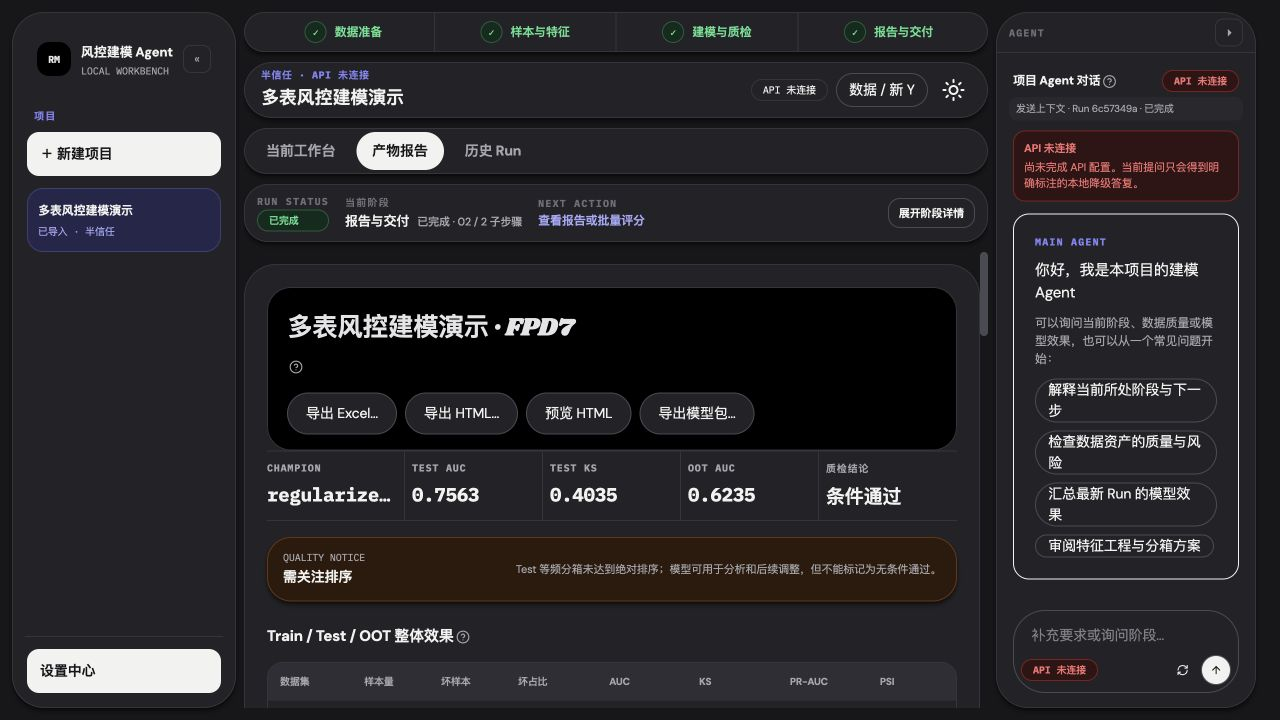
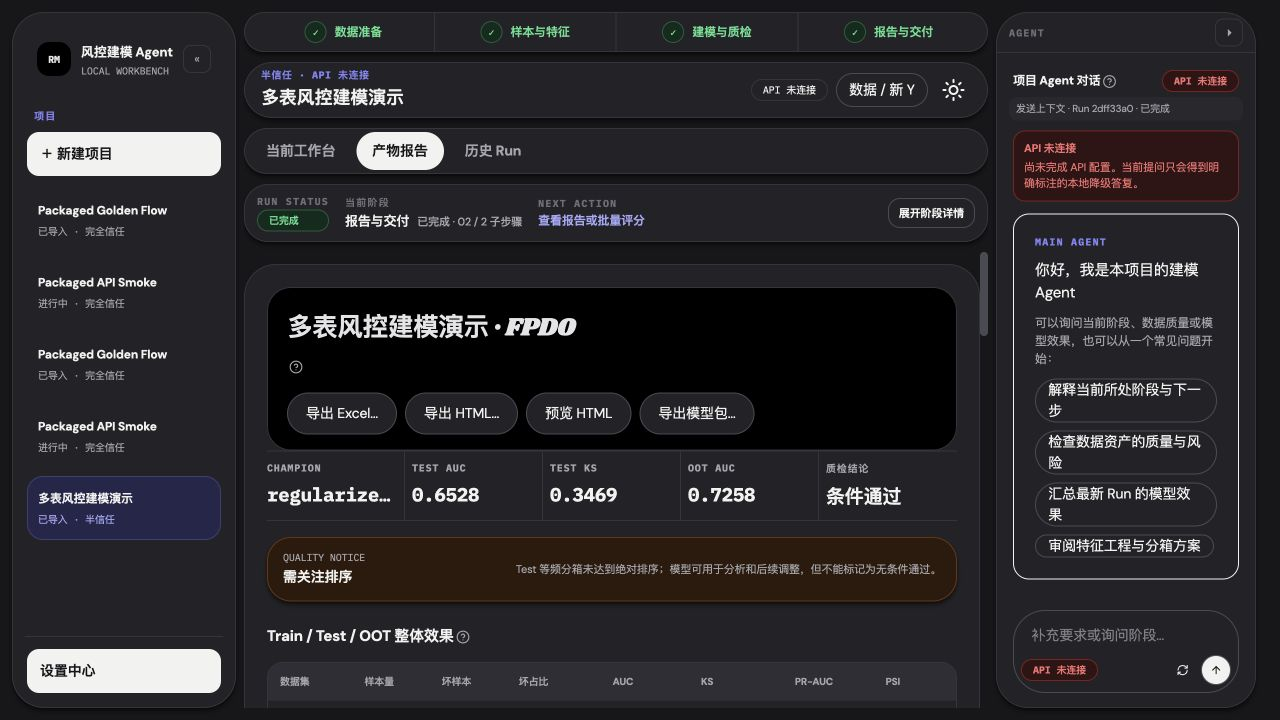
区分旧版迁移夹具与新版导出验收，补充严格回归

diff --git a/scripts/smoke_packaged_service.py b/scripts/smoke_packaged_service.py
@@ -98,9 +98,20 @@ def assert_sha256(value: Any, label: str) -> None:
         raise AssertionError(f"{label} does not contain a SHA-256 checksum")
 
 
+def is_legacy_migration_fixture(
+    requested: bool, health: dict[str, Any], evidence_output: str
+) -> bool:
+    if not requested:
+        return False
+    if health.get("version") != "1.1.2" or health.get("desktop") or not evidence_output:
+        raise AssertionError("旧版检查仅限带迁移证据输出的真实 1.1.2 Inno 夹具。")
+    return True
+
+
 def main() -> None:
     parser = argparse.ArgumentParser()
     parser.add_argument("--url", default="http://127.0.0.1:8765")
+    parser.add_argument("--legacy-inno-112", action="store_true")
     parser.add_argument(
         "--evidence-output",
         default="",
@@ -112,6 +123,7 @@ def main() -> None:
     health = request_json(base_url, "GET", "/api/v1/health", timeout=30)
     assert health["status"] == "ok"
     assert health["runtime"] == "local"
+    legacy_fixture = is_legacy_migration_fixture(args.legacy_inno_112, health, args.evidence_output)
     if health.get("desktop") is True:
         if not _desktop_session_headers():
             raise AssertionError("桌面后端冒烟未携带 WebView 已建立的会话。")
@@ -193,47 +205,48 @@ def main() -> None:
     assert job["metadata"]["score_column"].startswith("FPD0_")
     assert_sha256(job["metadata"]["output_sha256"], "score output")
 
-    with tempfile.TemporaryDirectory(prefix="risk-export-") as temporary:
-        export_directory = Path(temporary).resolve() / "中文 导出验收"
-        export_directory.mkdir()
-        exported_paths: list[str] = []
-        for format_name, artifact_kind in (
-            ("excel", "report_excel"),
-            ("html", "report_html"),
-            ("model", "model_package"),
-            ("html", "report_html"),
-        ):
-            saved = request_json(
+    if not legacy_fixture:
+        with tempfile.TemporaryDirectory(prefix="risk-export-") as temporary:
+            export_directory = Path(temporary).resolve() / "中文 导出验收"
+            export_directory.mkdir()
+            exported_paths: list[str] = []
+            for format_name, artifact_kind in (
+                ("excel", "report_excel"),
+                ("html", "report_html"),
+                ("model", "model_package"),
+                ("html", "report_html"),
+            ):
+                saved = request_json(
+                    base_url,
+                    "POST",
+                    f"/api/v1/reports/{run['id']}/export",
+                    {"format": format_name, "directory": str(export_directory)},
+                )
+                output = Path(saved["path"])
+                assert output.parent == export_directory
+                assert output.stat().st_size == saved["size_bytes"]
+                digest = hashlib.sha256(output.read_bytes()).hexdigest()
+                assert digest == saved["sha256"] == artifacts[artifact_kind]["checksum"]
+                assert saved["path"] not in exported_paths
+                exported_paths.append(saved["path"])
+            saved_score = request_json(
                 base_url,
                 "POST",
-                f"/api/v1/reports/{run['id']}/export",
-                {"format": format_name, "directory": str(export_directory)},
+                f"/api/v1/score-jobs/{job['id']}/export",
+                {"directory": str(export_directory)},
             )
-            output = Path(saved["path"])
-            assert output.parent == export_directory
-            assert output.stat().st_size == saved["size_bytes"]
-            digest = hashlib.sha256(output.read_bytes()).hexdigest()
-            assert digest == saved["sha256"] == artifacts[artifact_kind]["checksum"]
-            assert saved["path"] not in exported_paths
-            exported_paths.append(saved["path"])
-        saved_score = request_json(
-            base_url,
-            "POST",
-            f"/api/v1/score-jobs/{job['id']}/export",
-            {"directory": str(export_directory)},
-        )
-        assert (
-            hashlib.sha256(Path(saved_score["path"]).read_bytes()).hexdigest()
-            == job["metadata"]["output_sha256"]
-        )
-        preview_request = Request(
-            f"{base_url}/api/v1/reports/{run['id']}/preview",
-            headers=_desktop_session_headers(),
-        )
-        with urlopen(preview_request, timeout=30) as response:  # noqa: S310
-            assert response.headers["Content-Disposition"] == "inline"
-            assert "sandbox" in response.headers["Content-Security-Policy"]
-            assert "风控模型报告" in response.read().decode("utf-8")
+            assert (
+                hashlib.sha256(Path(saved_score["path"]).read_bytes()).hexdigest()
+                == job["metadata"]["output_sha256"]
+            )
+            preview_request = Request(
+                f"{base_url}/api/v1/reports/{run['id']}/preview",
+                headers=_desktop_session_headers(),
+            )
+            with urlopen(preview_request, timeout=30) as response:  # noqa: S310
+                assert response.headers["Content-Disposition"] == "inline"
+                assert "sandbox" in response.headers["Content-Security-Policy"]
+                assert "风控模型报告" in response.read().decode("utf-8")
 
     evidence: dict[str, Any] | None = None
     if args.evidence_output:
@@ -297,10 +310,11 @@ def main() -> None:
                 "artifact_kinds": sorted(required),
                 "score_rows": job["rows"],
                 "score_column": job["metadata"]["score_column"],
-                "export_to_chinese_directory": True,
-                "export_non_overwrite": True,
-                "html_preview": True,
+                "export_to_chinese_directory": not legacy_fixture,
+                "export_non_overwrite": not legacy_fixture,
+                "html_preview": not legacy_fixture,
                 "migration_evidence": bool(evidence),
+                "legacy_inno_112_fixture": legacy_fixture,
             },
             # 结果可能包含中文质检结论，ASCII 转义可兼容 Windows 旧代码页。
             ensure_ascii=True,

diff --git a/tests/test_desktop_cookie_smoke.py b/tests/test_desktop_cookie_smoke.py
@@ -12,6 +12,34 @@ COOKIE_NAME = "risk_agent_desktop_session"
 VALID_COOKIE = "a" * 64
 
 
+def test_normal_smoke_never_implicitly_downgrades_export_checks() -> None:
+    assert not smoke_packaged_service.is_legacy_migration_fixture(
+        False, {"version": "1.1.2"}, "migration.json"
+    )
+
+
+def test_explicit_legacy_fixture_keeps_migration_evidence() -> None:
+    assert smoke_packaged_service.is_legacy_migration_fixture(
+        True, {"version": "1.1.2"}, "migration.json"
+    )
+
+
+@pytest.mark.parametrize(
+    ("version", "desktop", "output"),
+    [
+        ("1.2.3", False, "migration.json"),
+        ("", False, "migration.json"),
+        ("1.1.2", True, "migration.json"),
+        ("1.1.2", False, ""),
+    ],
+)
+def test_legacy_profile_rejects_current_desktop_or_missing_evidence(version, desktop, output):
+    with pytest.raises(AssertionError):
+        smoke_packaged_service.is_legacy_migration_fixture(
+            True, {"version": version, "desktop": desktop}, output
+        )
+
+
 def test_cookie_reader_accepts_only_explicit_ipv4_loopback_backend() -> None:
     assert (
         read_webview_cookie._normalise_backend_url("http://127.0.0.1:49152/")

diff --git a/docs/代码审计/2026-09-08-导出与建模流程优化记录.md b/docs/代码审计/2026-09-08-导出与建模流程优化记录.md
@@ -81,9 +81,15 @@ Excel、HTML、模型包、评分结果使用一致的目录保存界面：
 ## 发布验收
 
 - [x] 修复、负向复现、本地回归与真实界面验收。
-- [ ] GitHub 最终提交的多版本 CI。
+- [ ] 最后一次验收脚本修订后的 GitHub 多版本 CI。
 - [ ] 同一提交的 Windows / macOS 冻结构建。
 - [ ] Windows 安装、迁移、恢复、建模、评分、导出、退出与卸载保留验收。
 - [ ] 安装包、Manifest、体积、哈希和公开下载独立核验。
 
-发布完成后在本节补充实际证据；未勾选项不代表已完成。
+首轮代码提交：`cb06b79b39f3a04f9a7c62028c9ade5f3fa9c8cf`。
+
+[修复分支 CI](https://github.com/aaaaaaa-feng/risk-model-agent/actions/runs/34181995466) 五个任务全部通过：Python 3.11、3.12、3.13 各 259 项；前端 90 项；Windows 桌面 16 项单元和 4 项集成测试，Rust fmt 与 Clippy 通过。
+
+首轮 [打包任务](https://github.com/aaaaaaa-feng/risk-model-agent/actions/runs/34182350340) 中 macOS 构建及运行、Windows 冻结服务建模评分导出、桌面构建和体积门禁通过；安装验收在旧版迁移准备阶段失败，未发布此包。
+
+原因是共用验收脚本要求真实 1.1.2 迁移夹具调用当时尚不存在的导出 API。修订后，只有显式指定、健康接口版本等于 1.1.2、普通 Inno 后端且要求输出迁移证据的场景，才使用旧版检查范围。新版冻结服务和安装后桌面均继续强制执行全部导出检查；不会因 404/405 或任意旧版本自动放宽。新增 6 项回归验证此边界。最终重建和发布证据待补充。
